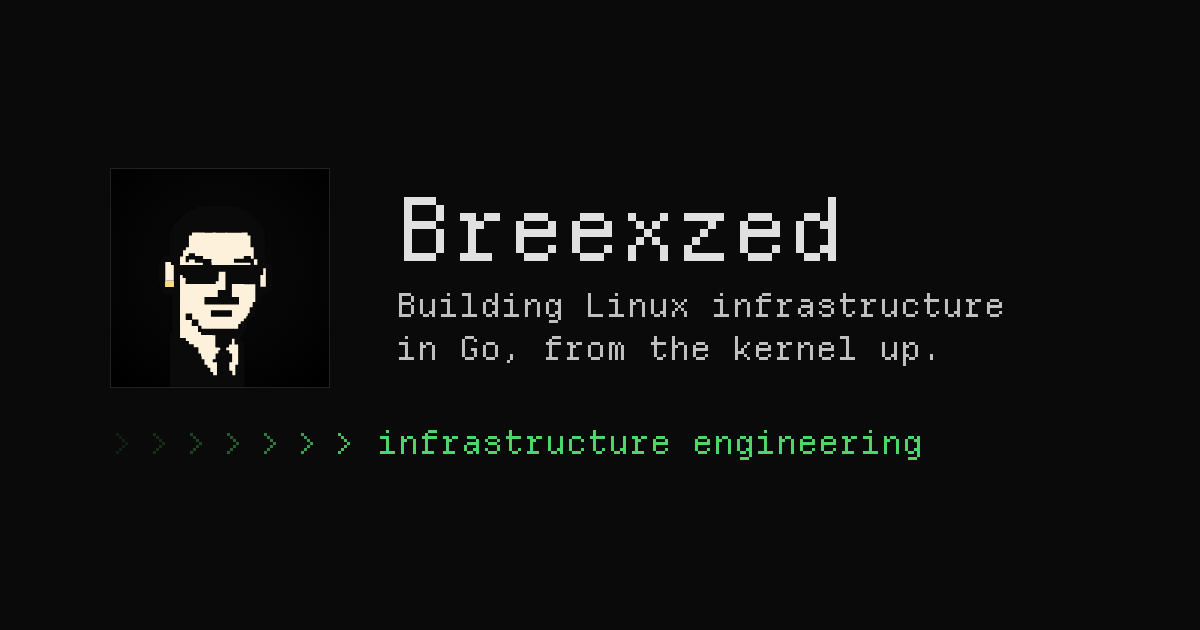
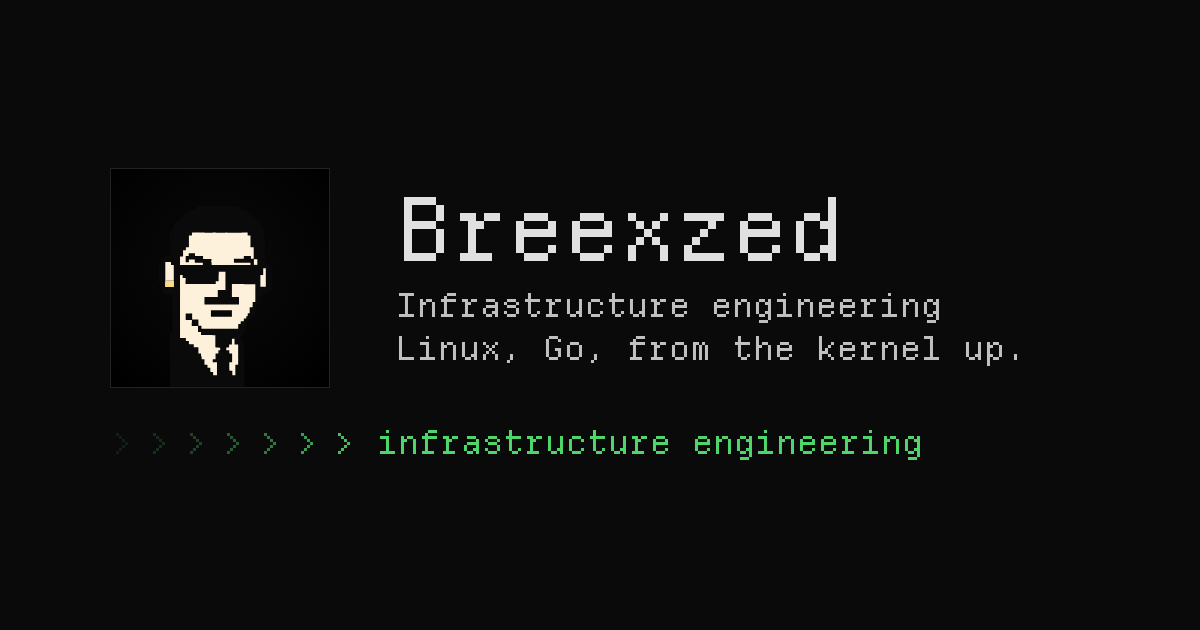
Home: Now section, projects before posts, new intro; About bio; svcstat; dedupe
- home: new title and intro, What I'm Up To Now, projects above posts, headings reworded
- portfolio: svcstat entry, Notable Things I've Done, skills update
- about: third-person bio up top, interests, old Sections list removed
- one tagline everywhere (header, meta, preview card); duplicate lines removed

diff --git a/assets-src/og/card.html b/assets-src/og/card.html
@@ -93,7 +93,7 @@ img{image-rendering:pixelated;border:1px solid var(--line);flex-shrink:0}
   <div class="t">
     <div class="kicker" hidden>breexzed / writing</div>
     <div class="name">Breexzed</div>
-    <div class="tag">Building Linux infrastructure in Go, from the kernel up.</div>
+    <div class="tag">Infrastructure engineering · Linux, Go, from the kernel up.</div>
     <div class="payoff">&gt; infrastructure engineering</div>
     <div class="url">breexzed.me</div>
   </div>
@@ -104,7 +104,7 @@ img{image-rendering:pixelated;border:1px solid var(--line);flex-shrink:0}
     <img src="../portrait.svg" alt="">
     <div>
       <div class="name">Breexzed</div>
-      <div class="tag">Building Linux infrastructure<br>in Go, from the kernel up.</div>
+      <div class="tag">Infrastructure engineering<br>Linux, Go, from the kernel up.</div>
     </div>
   </div>
   <div class="row"><span>&gt;</span><span>&gt;</span><span>&gt;</span><span>&gt;</span><span>&gt;</span><span>&gt;</span><span>&gt;</span><span class="payoff">infrastructure engineering</span></div>

diff --git a/content/about.md b/content/about.md
@@ -6,8 +6,15 @@ title: About
 
 <img class="portrait" src="/assets/portrait.webp" alt="BREEXZED portrait" width="132" height="132">
 
-Building Linux infrastructure in Go, from the kernel up.<br>
-I write about what i build, and what they taught me.
+**Breexzed** is a self-taught infrastructure engineer building Linux systems in Go, from the kernel up. It started with a PC sent by an internet friend, bricked on the first attempt to install Linux and brought back when Linux finally ran. The fascination with the machine never left.
+
+The method is stubborn but simple: interfaces & observability. Before building on a system, Breexzed asks two questions of it: "How does this interface with that?" and "How do I observe this?" Mapping what goes in, what comes out, and how it fails turns a black box into something that can be rebuilt by hand. Watching it run settles what's actually true, with every claim checked against an outside judge: a test, a measurement, or the kernel's own counters. The work shows it: an HTTP server built up from raw TCP ([httpd-go](https://github.com/breexzed/httpd-go)), a process monitor read straight from `/proc` ([Pulsed](https://github.com/breexzed/pulsed)), and a tool that pulls a systemd service's memory and task counters from its cgroup ([svcstat](https://github.com/breexzed/svcstat)).
+
+Breexzed is currently on a [3-month open source software grant](/portfolio/#notable-things-i-ve-done) through the Open Research Institute. Everything learned along the way is written down here.
+
+Interested in: Linux, eBPF, Go, containers, cloud, kernel-native infrastructure, memetics, decentralized and resilient communication, federated knowledge and collective intelligence, AI and human–machine coordination, software archaeology, electronics, writing, and the philosophy of self-knowledge.
+
+---
 
 Trapped within constraints that suffocate being and becoming, i untie myself from the shackles bound on me, through the dispersion of my soul and the traces i leave of having existed, homage to the one in me who knows nothing, but wants to learn.
 
@@ -30,11 +37,3 @@ My little philosophy on this:
 > Seed of becoming planted in self.
 >
 > — *Breexzed Daffodils*
-
-*I'll keep trying to find something to write about who I am, but for the time being, rejoice with me for who I'm becoming.*
-
-## Sections
-
-- **Corpus** — Projects, concepts, and articulations. A filtered index of the work and ideas that make up the estate. → [Writing](/writing/)
-- **Signal** — Here, I document the signals I encounter in the world as they express themselves within my field of resonance. I note them explicitly, along with the traces of how I encountered them. I explore their diverse natures to learn from them and to make predictions inferred from the lenses they share. Signals may include, but are not limited to, a person, a niche, or a group of people within a culture or subcultural organism. *(nothing published yet)*
-- **Projects** — This is the lab where I build systems out of the estate's ontology-driven corpus. Projects are also informed by signals and by the trails that led to them. Like every lab, this one is an ongoing work in progress. → [Portfolio](/portfolio/)

diff --git a/content/portfolio.md b/content/portfolio.md
@@ -1,11 +1,14 @@
 ---
 title: Portfolio
-description: Building Linux infrastructure in Go, from the kernel up.
+description: Infrastructure engineering · Linux, Go, from the kernel up.
 # Shown on the home page, in this order. `id` must match a `{#id}` on a ### heading below.
 projects:
   - id: pulsed
     name: Pulsed
     summary: A Linux process monitor in Go, built from /proc up.
+  - id: svcstat
+    name: svcstat
+    summary: Memory and task counters for a systemd service, read from its cgroup.
   - id: httpd-go
     name: httpd-go
     summary: A small HTTP server in Go. Built from raw TCP.
@@ -13,10 +16,6 @@ projects:
     name: wtp (Willingness To Pay)
     summary: Find out whether people would pay, from interview and YouTube transcripts.
 ---
-
-# Breexzed
-
-Infrastructure engineering. Building Linux infrastructure in Go, from the kernel up.
 
 <img class="portrait" src="/assets/portrait.webp" alt="Breexzed portrait" width="132" height="132">
 
@@ -33,9 +32,13 @@ Infrastructure engineering. Building Linux infrastructure in Go, from the kernel
 <span>&gt; infrastructure engineering</span>
 </div>
 
-Interested in: Linux, eBPF, Go, containers, cloud, kernel-native infrastructure.
+[More about me, and what I'm interested in →](/about/)
 
-## Now
+## Notable Things I've Done
+
+- **Nov 2026:** Received a 3-month open source software grant, funded by [Shane Andersen](https://shaneandersen.com/) through the [Open Research Institute](https://openresearchinstitute.org/), to build a federated knowledge system on Freenet for ORI.
+
+## Thing I'm Working On Now
 
 ### Pulsed — *Oct 2026 – present* {#pulsed}
 
@@ -50,6 +53,18 @@ A Linux process monitor in Go, built from /proc up.
 [code](https://github.com/breexzed/pulsed)
 
 ## Selected work
+
+### svcstat — *Oct 2026 – Nov 2026* {#svcstat}
+
+`Go · systemd · cgroup v2 · standard library only`
+
+Memory and task counters for a systemd service, read from its cgroup.
+
+- Asks systemd for the unit's state and cgroup path, and refuses to read counters for a unit that isn't loaded and running: a stopped unit also has an empty cgroup path.
+- Reads `memory.current`, `memory.peak` and `pids.current` from `/sys/fs/cgroup`, and checks every number against `systemctl show`.
+- Never prints 0 on a failed read. No result is better than a wrong one.
+
+[code](https://github.com/breexzed/svcstat)
 
 ### httpd-go — *Sep 2026* {#httpd-go}
 
@@ -77,7 +92,7 @@ Find out whether people would pay, from interview and YouTube transcripts. Built
 
 ## Skills
 
-Go / Python / Linux (/proc) / KVM, QEMU, libvirt / Git / GitHub Actions / Docker / Bash
+Go / Python / Linux / KVM, QEMU, libvirt / LXD, MAAS / Git / GitHub Actions / Docker / Bash
 
 ## Writing
 
@@ -89,4 +104,4 @@ Go / Python / Linux (/proc) / KVM, QEMU, libvirt / Git / GitHub Actions / Docker
 
 ---
 
-*Updated Oct 2026.*
+*Updated Nov 2026.*

diff --git a/content/index.md b/content/index.md
@@ -2,25 +2,29 @@
 title: Home
 ---
 
-# Welcome to the estate
+# Welcome To My Estate
 
-Building Linux infrastructure in Go, from the kernel up. I've been tracing systems, signals and building what i find useful. I write about what i build, and what they taught me.
+Holding ancient gold in a world obsessed with glitter. I don't know how to do it yet, but I will do it. Everything I learn on the way, written down here.
 
-A home for traces, projects, learning, and the slow arrangement of understanding.
+## What I'm Up To Now
 
-## Latest Posts
+- Currently on a [3-month open source software grant](/portfolio/#notable-things-i-ve-done) through the Open Research Institute
 
-{{latest_posts}}
+- Home labbing and learning Linux internals
 
-[View all posts →](/writing/)
-
-## Projects
+## Projects I've Worked On
 
 {{projects_list}}
 
 [Full portfolio →](/portfolio/)
 
-## Contact
+## Some of My Latest Posts
+
+{{latest_posts}}
+
+[View all posts →](/writing/)
+
+## Where You Can Reach Me
 
 | Platform | Address |
 | --- | --- |
@@ -29,7 +33,3 @@ A home for traces, projects, learning, and the slow arrangement of understanding
 | 𝕏 X | [@breexzed_](https://x.com/breexzed_) |
 
 <p class="elsewhere">elsewhere: <a rel="me" href="https://mastodon.social/@breexzed">Mastodon</a> · <a rel="me" href="https://codeberg.org/Breexzed">Codeberg</a></p>
-
----
-
-*Breexzed / Infrastructure engineering*
